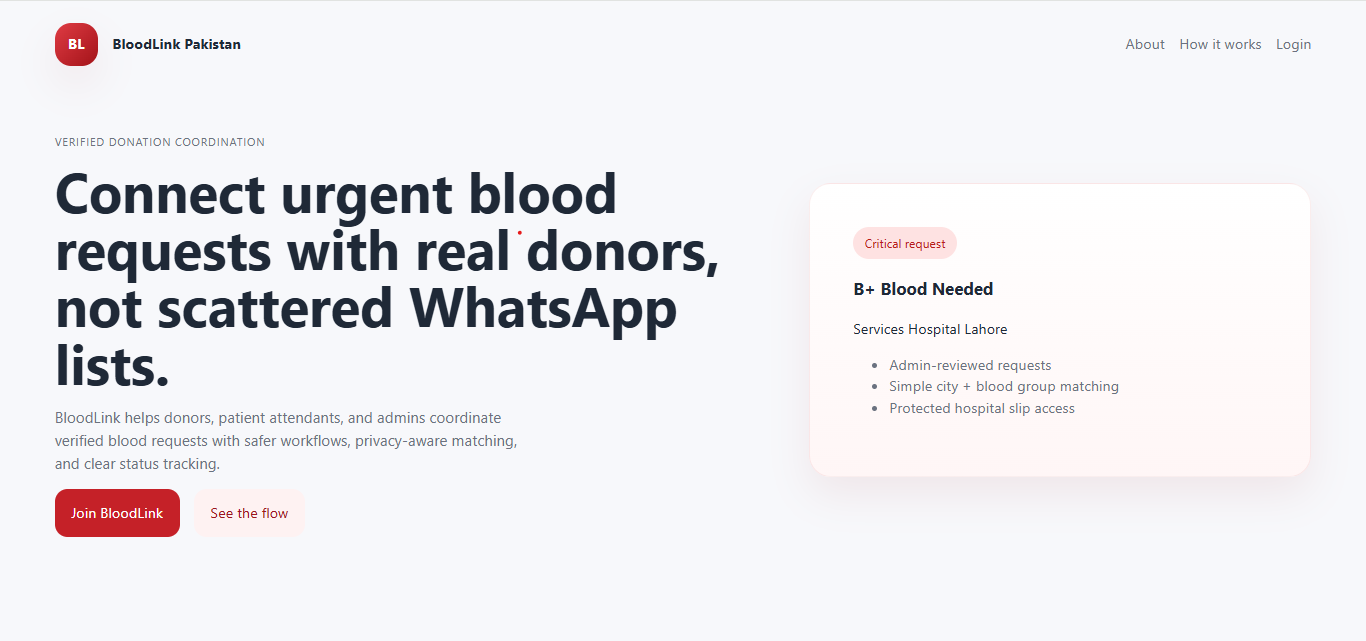
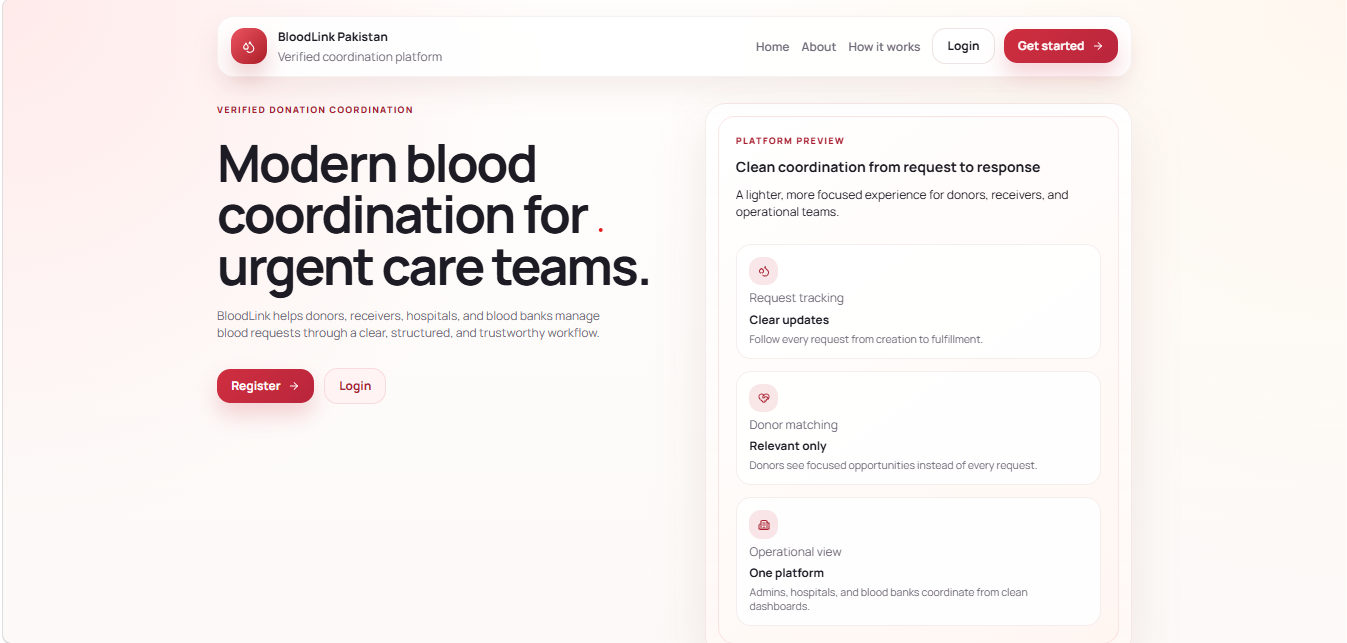
feat: enforce institution approval flow and update project screenshot

diff --git a/README.md b/README.md
@@ -23,6 +23,7 @@ BloodLink focuses on a realistic MVP:
 - Matching happens automatically using city, blood-group compatibility, donor availability, and donation recency rules.
 - Donors can stay private or mark themselves publicly available for compatible receiver outreach in-app.
 - Receivers can also discover blood banks and institution donors in the same city.
+- Institution donors register through a separate verification flow and only become publicly visible after admin approval.
 - Chat and notifications keep receiver-to-donor and receiver-to-institution coordination inside the platform.
 - Admins act as the trust and moderation layer, with analytics, audit logs, reports, and system-wide visibility.
 
@@ -30,6 +31,7 @@ BloodLink focuses on a realistic MVP:
 - Donor registration and login
 - Receiver registration and login
 - Institution donor self-registration and login
+- Institution approval flow with pending, approved, rejected, and suspended states
 - Admin login through seed data
 - Donor profile creation, availability management, and public visibility toggle
 - Receiver profile foundation and blood request creation with required hospital slip upload
@@ -38,7 +40,7 @@ BloodLink focuses on a realistic MVP:
 - Receiver views for matched donors, public donors, blood banks, and institutions in the request city
 - Blood bank inventory management with unit creation, summary metrics, and city-request visibility
 - Hospital staff workspace for hospital-originated request intake
-- Institution donor workspace for organization profile management and message handling
+- Institution donor workspace with status-based access control and admin approval gating
 - Simple in-app messaging between receivers and matched donors, public donors, blood banks, and institutions
 - FastAPI WebSocket support for real-time chat in active conversation views
 - In-app notifications
@@ -99,7 +101,7 @@ bloodlink-pakistan/
 - Admin: reviews users, donors, receivers, requests, reports, matches, and audit logs across the whole platform.
 - Hospital Staff: works only inside the assigned hospital workspace and creates hospital-originated requests.
 - Blood Bank Staff: works only inside the assigned blood bank scope, manages inventory, and monitors city demand.
-- Institution Donor: publishes an organization profile and handles receiver outreach for city-based donor support.
+- Institution Donor: registers through a separate verification flow and only gets full institution features after admin approval.
 
 ## Permissions
 - Donor can only manage their own donor profile.
@@ -110,18 +112,21 @@ bloodlink-pakistan/
 - Receiver can only view matches related to their own requests and only contact valid in-scope donors or organizations.
 - Hospital staff can only operate within their assigned hospital.
 - Blood bank staff can only operate within their assigned blood bank.
-- Institution donors can only manage their own institution profile and message threads.
+- Pending, rejected, and suspended institutions cannot access full institution features, public visibility, or receiver messaging.
+- Approved institution donors can manage their own institution profile and message threads.
 - Admin can manage all users, donors, requests, matches, reports, and audit logs.
+- Admin can approve, reject, or suspend institution accounts from the protected admin workspace.
 
 ## System workflow
-1. A donor, receiver, or institution donor creates an account.
+1. A donor or receiver creates an account, or an institution submits a separate verification registration.
 2. A receiver or hospital staff member creates a blood request and uploads the supporting slip.
 3. BloodLink automatically looks for compatible donors in the same city.
 4. Candidate matches are created and donors receive notifications.
-5. Receivers can also discover public donors, blood banks, and institutions in the same city.
-6. Donors accept or reject assigned matches.
-7. Receivers track confirmed donor counts, message valid contacts, and mark the request fulfilled.
-8. Admins monitor users, reports, inventory visibility, and audit history.
+5. Admin reviews institution registrations and approves only legitimate organizations for public visibility.
+6. Receivers can discover public donors, blood banks, and approved institutions in the same city.
+7. Donors accept or reject assigned matches.
+8. Receivers track confirmed donor counts, message valid contacts, and mark the request fulfilled.
+9. Admins monitor users, reports, inventory visibility, and audit history.
 
 ## Database overview
 Core tables in the MVP include:
@@ -220,7 +225,7 @@ Included sample data:
 - 2 sample donation matches
 - 1 sample hospital
 - 1 sample blood bank
-- 1 sample institution profile
+- 1 approved sample institution profile
 - Major Pakistan city seed data
 - Sample notifications and chat history
 
@@ -232,6 +237,13 @@ Other useful seeded accounts:
 - Hospital admin: `hospital.admin@bloodlink.pk` / `Hospital12345`
 - Blood bank admin: `bloodbank.admin@bloodlink.pk` / `BloodBank12345`
 - Institution donor: `institution@bloodlink.pk` / `Institution12345`
+
+Institution approval note:
+- New institution registrations start as `pending_approval`
+- Pending institutions are redirected to a verification progress screen
+- Only `approved` institutions appear in receiver listings and can use institution messaging
+- `rejected` institutions can correct details and resubmit for review
+- `suspended` institutions lose institution access until restored by admin
 
 ## Backup and restore
 Backup:
@@ -262,6 +274,7 @@ cat backup.sql | docker exec -i bloodlink-postgres psql -U blood_user -d blood_a
 Basic backend tests cover:
 - Health route
 - Auth register and login flow
+- Institution registration and approval-state access control
 - Donor profile creation
 - Blood request creation and auto-matching
 - Matching service logic
